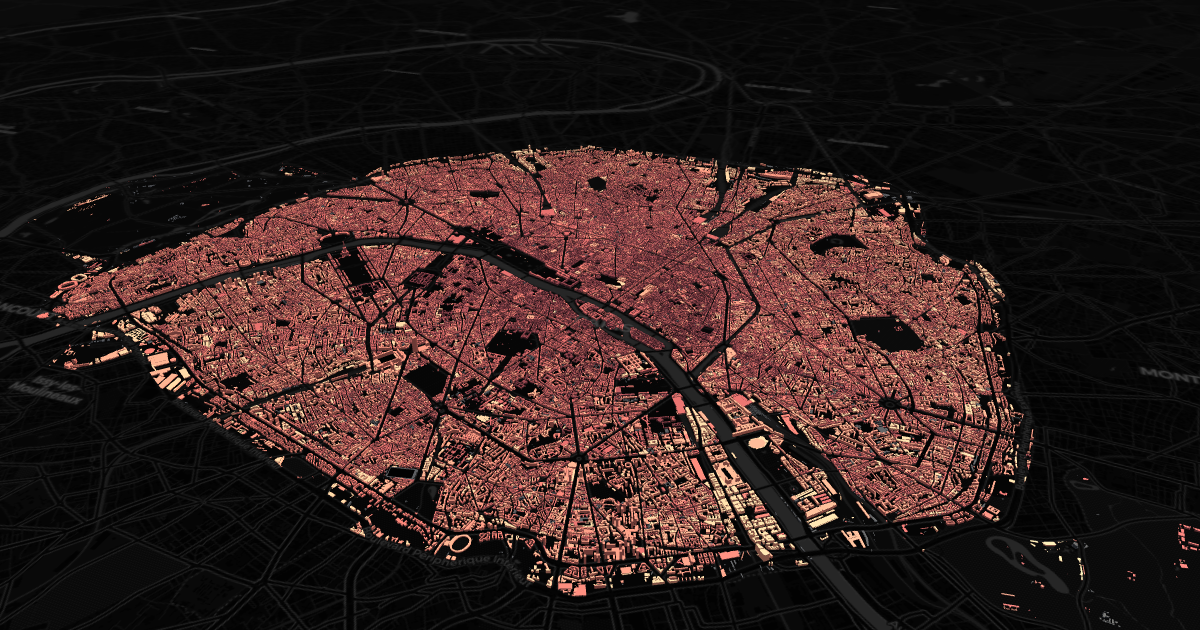
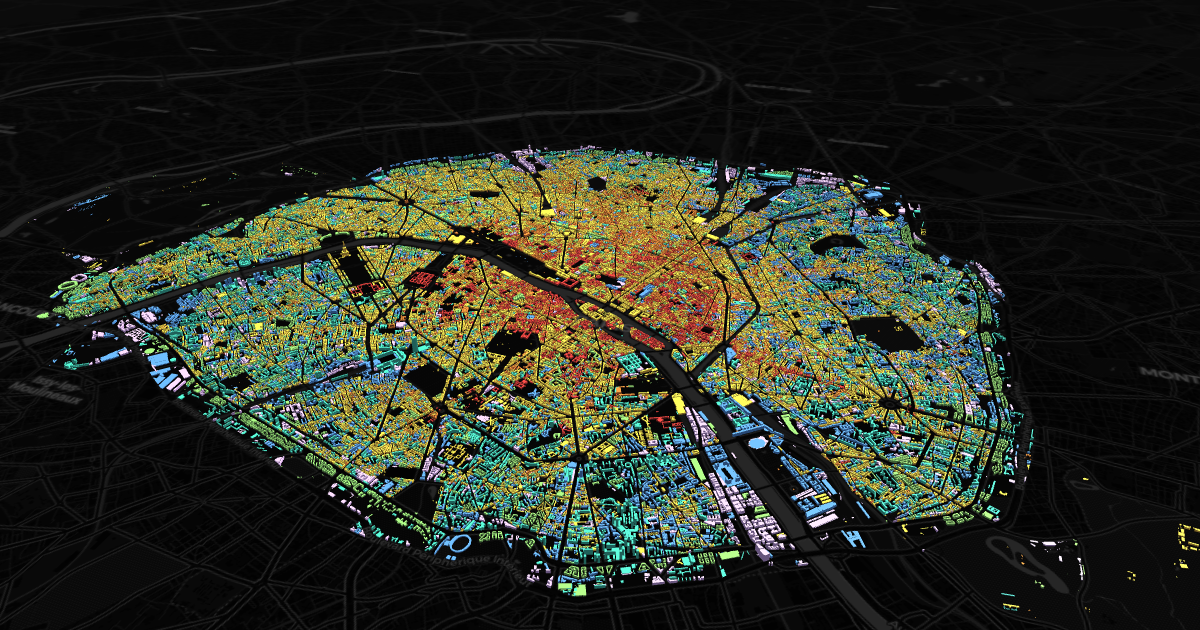
fix: strates gets a spectral period scale and undated buildings join only once the city is complete

diff --git a/apps/site/src/components/StratesMap.tsx b/apps/site/src/components/StratesMap.tsx
@@ -53,6 +53,8 @@ const UNDATED = 255;
 
 type TimeMode = "before" | "after";
 
+const END_YEAR = 2026;
+
 // piecewise clock: the sweep lingers where Paris actually built (64 years of
 // 1850-1914 hold 44% of the city), and compresses the thin centuries
 const TIMELINE: [number, number][] = [
@@ -62,7 +64,7 @@ const TIMELINE: [number, number][] = [
   [60, 1914],
   [70, 1940],
   [80, 1975],
-  [90, 2026],
+  [90, END_YEAR],
 ];
 const MAX_T = 90;
 const WRAP_T = 96; // a short hold on the full city before the loop restarts
@@ -88,18 +90,20 @@ const timeForYear = (year: number): number => {
 };
 const STORY_YEAR = 1914; // half the city already built, the Belle Époque peak
 
-// display bands merge the 11 Apur periods along their own edges; the ramp is
-// one rose family, monotone lightness, oldest darkest (validated on the dark
-// basemap: adjacent steps distinct, dark end still clears the surface)
+// display bands merge the 11 Apur periods along their own edges; a binned
+// spectral scale in age order, warm to cool, with the Haussmann wave in gold
+// (validated on the dark basemap: every pair separable under CVD, ΔE >= 15;
+// lightness deliberately leaves the flat-chart band so bright bands pop
+// under the 3D lighting)
 const BAND_ENDS = [1800, 1850, 1914, 1939, 1975, 1999];
 const BAND_HEX = [
-  "#6d3540",
-  "#8a4650",
-  "#a5555a",
-  "#c06563",
-  "#da766d",
-  "#f28878",
-  "#ffa48a",
+  "#c23a3a",
+  "#e07b39",
+  "#f0c04a",
+  "#7dbf6e",
+  "#3fbfb2",
+  "#4f8fe6",
+  "#cfa9fb",
 ];
 const BAND_RGB = BAND_HEX.map(hexToRgb);
 const UNDATED_HEX = "#40454e";
@@ -165,11 +169,17 @@ function parseBuildings(
   const displayYear = new Float32Array(buildingCount);
   for (let i = 0; i < buildingCount; i++) {
     let year = yearExact[i];
-    if (year === 0 && band[i] !== UNDATED && bands[band[i]]) {
-      const { from, to } = bands[band[i]];
-      // deterministic per-building hash so the spread is stable across loads
-      const h = (Math.imul(i ^ (i >>> 13), 2654435761) >>> 0) / 4294967296;
-      year = from + h * (to - from);
+    if (year === 0) {
+      if (band[i] !== UNDATED && bands[band[i]]) {
+        const { from, to } = bands[band[i]];
+        // deterministic per-building hash so the spread is stable across loads
+        const h = (Math.imul(i ^ (i >>> 13), 2654435761) >>> 0) / 4294967296;
+        year = from + h * (to - from);
+      } else {
+        // undated: join only in the sweep's final beat, when the complete
+        // city assembles, instead of posing as pre-1600 fabric
+        year = END_YEAR;
+      }
     }
     displayYear[i] = year;
   }
@@ -296,17 +306,34 @@ export default function StratesMap() {
           autoHighlight: true,
           highlightColor: [255, 255, 255, 110],
           // GPU filter: sweeping the year only updates a uniform, the 1.2
-          // M-vertex geometry is tessellated and uploaded exactly once
-          extensions: [new DataFilterExtension({ filterSize: 1 })],
-          getFilterValue: (building: Building) => displayYear[building.idx],
+          // M-vertex geometry is tessellated and uploaded exactly once. The
+          // second dimension flags undated buildings so "built after" can
+          // exclude them (their placement at the end is display, not a date)
+          extensions: [new DataFilterExtension({ filterSize: 2 })],
+          getFilterValue: (building: Building) => [
+            displayYear[building.idx],
+            band[building.idx] === UNDATED ? 1 : 0,
+          ],
           filterRange:
             mode === "before"
-              ? [-1, quantizedYear]
-              : [quantizedYear, 3000],
+              ? [
+                  [-1, quantizedYear],
+                  [-0.5, 1.5],
+                ]
+              : [
+                  [quantizedYear, 3000],
+                  [-0.5, 0.5],
+                ],
           filterSoftRange:
             mode === "before"
-              ? [-1, Math.max(-1, quantizedYear - 4)]
-              : [Math.min(3000, quantizedYear + 4), 3000],
+              ? [
+                  [-1, Math.max(-1, quantizedYear - 4)],
+                  [-0.5, 1.5],
+                ]
+              : [
+                  [Math.min(3000, quantizedYear + 4), 3000],
+                  [-0.5, 0.5],
+                ],
         }),
       ],
     });

diff --git a/apps/site/src/lib/siteStrings.ts b/apps/site/src/lib/siteStrings.ts
@@ -308,7 +308,7 @@ export const STRATES: Record<Lang, StratesStrings> = {
     dirForward: "time flowing forward, click to rewind",
     dirBack: "time rewinding, click to flow forward",
     legend:
-      "Every footprint inside the périphérique, extruded to its measured height and colored by construction period: dark wine for the oldest, pale rose for the newest, slate gray where the Apur could not date the building. Press play and the city assembles year by year: the medieval core, the faubourgs, the 1851-1914 explosion that built half of Paris, then the concrete century. Drag with the right mouse button or two fingers to tilt and turn.",
+      "Every footprint inside the périphérique, extruded to its measured height and colored by construction period: deep red for the oldest, Haussmann's wave in gold, violet for the newest. Buildings the Apur could not date (slate gray) only join once the city is complete. Press play and the city assembles year by year: the medieval core, the faubourgs, the 1851-1914 explosion that built half of Paris, then the concrete century. Drag with the right mouse button or two fingers to tilt and turn.",
     legendNew: "2000+",
     undatedNote: (pct) => `undated: ${pct}% of footprints`,
     storyBefore: "✦ Paris in 1914, half the city already there",
@@ -333,7 +333,7 @@ export const STRATES: Record<Lang, StratesStrings> = {
     dirForward: "le temps avance, cliquez pour remonter",
     dirBack: "le temps remonte, cliquez pour avancer",
     legend:
-      "Chaque emprise bâtie intra-muros, extrudée à sa hauteur mesurée et colorée par période de construction : lie-de-vin pour les plus anciennes, rose pâle pour les plus récentes, gris ardoise quand l'Apur n'a pas pu dater le bâtiment. Lancez la lecture et la ville s'assemble année après année : le cœur médiéval, les faubourgs, l'explosion de 1851-1914 qui bâtit la moitié de Paris, puis le siècle du béton. Bouton droit ou deux doigts pour incliner et pivoter.",
+      "Chaque emprise bâtie intra-muros, extrudée à sa hauteur mesurée et colorée par période de construction : rouge profond pour les plus anciennes, la vague haussmannienne en or, violet pour les plus récentes. Les bâtiments que l'Apur n'a pas pu dater (gris ardoise) n'apparaissent qu'une fois la ville complète. Lancez la lecture et la ville s'assemble année après année : le cœur médiéval, les faubourgs, l'explosion de 1851-1914 qui bâtit la moitié de Paris, puis le siècle du béton. Bouton droit ou deux doigts pour incliner et pivoter.",
     legendNew: "2000+",
     undatedNote: (pct) => `non datées : ${pct} % des emprises`,
     storyBefore: "✦ Paris en 1914, la moitié de la ville déjà là",

diff --git a/docs/strates.md b/docs/strates.md
@@ -5,8 +5,9 @@ Live: [paris-viz.vercel.app/strates](https://paris-viz.vercel.app/strates)
 ![Every building inside the périphérique colored by construction period](../apps/site/public/strates-og.png)
 
 Every built footprint inside the périphérique (~128,000) extruded in 3D and
-colored by construction period, on a rose ramp from dark wine (before 1800)
-to pale rose (since 2000). Press play and the city assembles year by year:
+colored by construction period, on a spectral scale in age order: deep red
+(before 1800) through Haussmann gold (1851-1914) to violet (since 2000).
+Press play and the city assembles year by year:
 the medieval core along the Seine, the faubourgs, the 1851-1914 explosion
 that built almost half of today's Paris, then the concrete century filling
 the edges.
@@ -22,9 +23,10 @@ the edges.
 - The story button pins 1914: the Belle Époque city, half of today's Paris
   already standing. Frozen there, it flips to offer everything built after.
 - Hover a building for its construction year (or period, when only the
-  period is known) and its height. Undated buildings (~6%) stay slate gray
-  and are visible from the start. Right-drag or two fingers to tilt and
-  turn.
+  period is known) and its height. Undated buildings (~6%, slate gray) join
+  only when the sweep completes, and are excluded from "built after" mode:
+  their position in the animation is display, not a date. Right-drag or two
+  fingers to tilt and turn.
 - URL params: `?t=60&mode=after&dir=back&paused=1` (`t` in clock units,
   0-90; 24 = 1850, 60 = 1914).
 